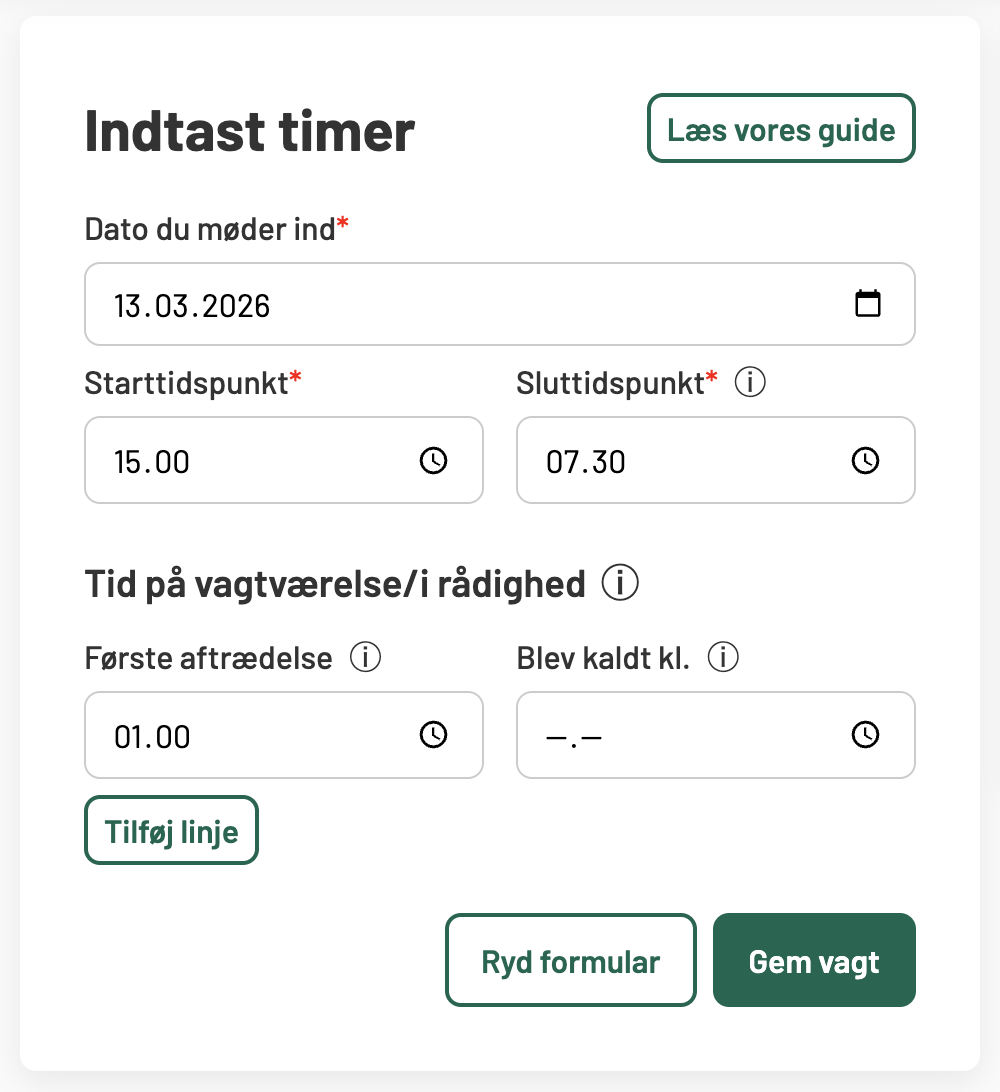
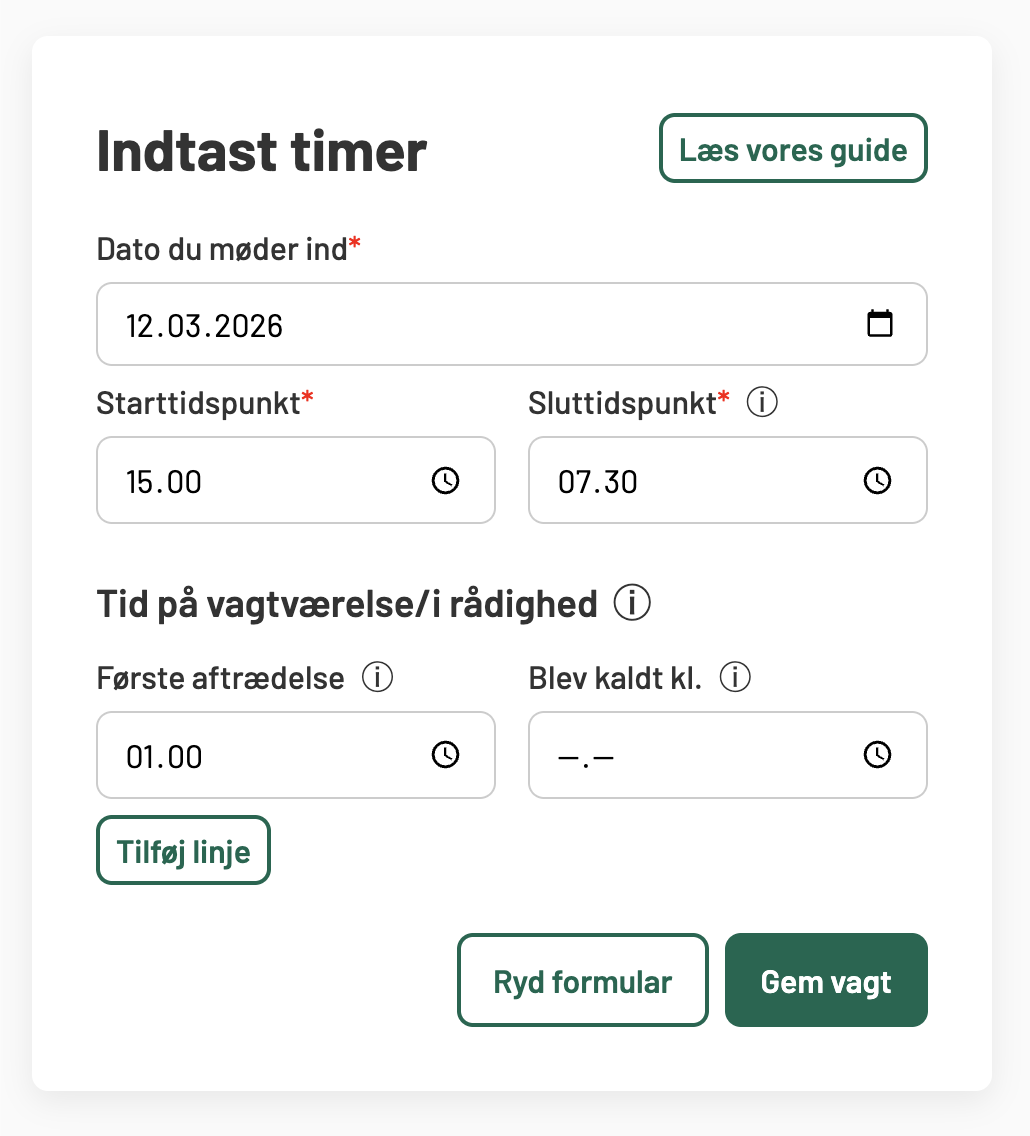
Update images and fix typos in how-to instructions

diff --git a/howto.html b/howto.html
@@ -93,14 +93,14 @@
 
             <img src="assets/1pause.png" style="max-width: 520px;"
                 alt="En korrekt udfyldt vagt med én fratrædelse og ingen kald herafter">
-            <p><i>Eksmepel på korrekt udfyldt vagt med én fratrædelse og ingen kald herefter. Når feltet med kald ved
-                    siden
-                    af fratrædesen er tom, tolkes det som om, at du er fratrådt og var på værelse resten af vagten.</p>
+            <p><i>Eksempel på korrekt udfyldt vagt med én fratrædelse og ingen kald herefter. Når feltet med kald ved
+                    siden af fratrædesen er tom, tolkes det som om, at du er fratrådt og var på værelse resten af
+                    vagten.</p>
             </i> </p>
 
             <img src="assets/flere-pauser.png" style="max-width: 520px;"
                 alt="En korrekt udfyldt vagt med én fratrædelse og ingen kald herafter">
-            <p><i>Eksmepel på vagt med én fratrædelse og et kald igen kl. 1:45. Herefter var personen i aktiv arbejde
+            <p><i>Eksempel på vagt med én fratrædelse og et kald igen kl. 1:45. Herefter var personen i aktiv arbejde
                     til kl. 4:00, hvor de gik på vagtværelse. Derefter blev de kaldt igen kl. 4.22. Derefter gik
                     personen på vagtværelse for sidste gang kl. 5:15 og blev der resten af vagten.</p>
             </i> </p>
